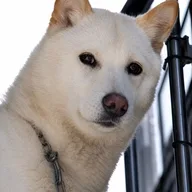
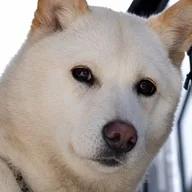
Review cycle 2 (part 2): visual polish
- Fix invisible results numbers (cascade order) and 2x2 results layout
- One site grid (4/6) for split heads, rows, case sections and footer
- 160px section rhythm on desktop, larger case h1, type-card media layout
- Agent map bracket to all three workers; mobile connectors restored
- Tighter avatar crops, outlined strength cards, focus ring on dark band
- Header CTA gap, footer alignment, mobile split-head spacing

Claude-Session: https://claude.ai/code/session_019asvNajs8MQWQtssKnsBmK

diff --git a/assets/site.bundle.css b/assets/site.bundle.css
@@ -314,7 +314,7 @@ a.card:hover .card-title { text-decoration: underline; }
 .case-body li::marker { color: var(--text-meta); }
 .case-body strong { color: var(--wds-label-strong); font-weight: 700; }
 .results { display: grid; grid-template-columns: repeat(var(--n, 4), minmax(0,1fr)); gap: var(--web-gutter); background: var(--surface-inverse); border-radius: var(--web-radius-card); padding: 32px; }
-.results--2 { --n: 2; } .results--3 { --n: 3; } .results--4 { --n: 4; }
+.results--2 { --n: 2; } .results--3 { --n: 3; } .results--4 { --n: 2; }
 .results .result { border-top-color: rgba(255,255,255,.4); }
 .results .v { color: var(--text-inverse); }
 .results .k { color: var(--wds-gray-90); }
@@ -472,4 +472,54 @@ a.card:hover .card-title { text-decoration: underline; }
   #work .card-media { aspect-ratio: 2 / 1; }
   .agent-map { gap: 12px; }
   .agent-col + .agent-col::before, .agent-col + .agent-col::after { display: none; }
+}
+
+/* ---------- Review cycle 2 (visual) ---------- */
+.results .result .v { color: var(--text-inverse); white-space: nowrap; font-size: var(--wds-title2); line-height: var(--wds-title2-lh); }
+.results .result .k { color: var(--wds-gray-90); }
+.header-cta { gap: 0; }
+.footer-cta { align-items: start; }
+.footer-cta > div:last-child { padding-top: 28px; }
+.row { grid-template-columns: minmax(0,4fr) minmax(0,6fr); gap: 48px; }
+.case-section { grid-template-columns: minmax(0,4fr) minmax(0,6fr); }
+.case-body .row { grid-template-columns: minmax(0,2fr) minmax(0,8fr); gap: 24px; }
+.footer-grid { grid-template-columns: minmax(0,4fr) repeat(2, minmax(0,3fr)); gap: 48px; }
+.card-media { border-bottom: 1px solid var(--wds-line-normal); }
+.card-media--type { justify-content: space-between; }
+.card-media--type .cap { order: -1; }
+.grid-2 .card-media--type .big { font-size: 72px; line-height: 84px; }
+.card--filled { background: var(--wds-white); border-color: var(--wds-line-normal); }
+.band :focus-visible { box-shadow: 0 0 0 2px var(--wds-black), 0 0 0 4px var(--wds-white); }
+.nowrap { white-space: nowrap; }
+.agent-map { align-items: start; }
+.agent-col { padding-top: 0; }
+.agent-col:last-child { padding-left: 0; }
+@media (min-width: 1200px) {
+  .section { padding-block: var(--web-section-y); }
+  .section + .section { padding-top: 0; }
+  .hero + .section { padding-top: 0; }
+  .case-hero h1 { font-size: var(--wds-display1); line-height: var(--wds-display1-lh); letter-spacing: var(--wds-display1-ls); }
+}
+@media (max-width: 1023px) {
+  .row { grid-template-columns: 1fr; gap: 6px; }
+  .footer-grid { grid-template-columns: 1fr 1fr; gap: 32px; }
+  .footer-grid > :first-child { grid-column: 1 / -1; }
+}
+@media (max-width: 719px) {
+  .sh-split > div:last-child, .footer-cta > div:last-child { padding-top: 0; }
+  .agent-map { gap: 32px; }
+  .agent-col + .agent-col::before, .agent-col + .agent-col::after { display: block; }
+  .grid-2 .card-media--type .big { font-size: var(--wds-display1); line-height: var(--wds-display1-lh); }
+}
+
+@media (min-width: 1024px) {
+  .agent-map { align-items: center; }
+  .agent-col:last-child { padding-left: 20px; }
+  .agent-col:last-child .agent-node { position: relative; }
+  .agent-col:last-child .agent-node::before { content: ""; position: absolute; left: -21px; top: 50%; width: 20px; border-top: 1px solid currentColor; opacity: .5; }
+  .agent-col:last-child::after { content: ""; position: absolute; left: -24px !important; top: calc(32px + 37px) !important; bottom: 37px; height: auto; width: 0; border: 0 !important; border-left: 1px solid currentColor !important; opacity: .5; }
+  .agent-col:last-child::before { width: 20px !important; }
+}
+@media (max-width: 1023px) {
+  .results .result .v { white-space: normal; font-size: var(--wds-title3); line-height: var(--wds-title3-lh); }
 }

diff --git a/assets/site.css b/assets/site.css
@@ -205,7 +205,7 @@ a.card:hover .card-title { text-decoration: underline; }
 .case-body li::marker { color: var(--text-meta); }
 .case-body strong { color: var(--wds-label-strong); font-weight: 700; }
 .results { display: grid; grid-template-columns: repeat(var(--n, 4), minmax(0,1fr)); gap: var(--web-gutter); background: var(--surface-inverse); border-radius: var(--web-radius-card); padding: 32px; }
-.results--2 { --n: 2; } .results--3 { --n: 3; } .results--4 { --n: 4; }
+.results--2 { --n: 2; } .results--3 { --n: 3; } .results--4 { --n: 2; }
 .results .result { border-top-color: rgba(255,255,255,.4); }
 .results .v { color: var(--text-inverse); }
 .results .k { color: var(--wds-gray-90); }
@@ -363,4 +363,54 @@ a.card:hover .card-title { text-decoration: underline; }
   #work .card-media { aspect-ratio: 2 / 1; }
   .agent-map { gap: 12px; }
   .agent-col + .agent-col::before, .agent-col + .agent-col::after { display: none; }
+}
+
+/* ---------- Review cycle 2 (visual) ---------- */
+.results .result .v { color: var(--text-inverse); white-space: nowrap; font-size: var(--wds-title2); line-height: var(--wds-title2-lh); }
+.results .result .k { color: var(--wds-gray-90); }
+.header-cta { gap: 0; }
+.footer-cta { align-items: start; }
+.footer-cta > div:last-child { padding-top: 28px; }
+.row { grid-template-columns: minmax(0,4fr) minmax(0,6fr); gap: 48px; }
+.case-section { grid-template-columns: minmax(0,4fr) minmax(0,6fr); }
+.case-body .row { grid-template-columns: minmax(0,2fr) minmax(0,8fr); gap: 24px; }
+.footer-grid { grid-template-columns: minmax(0,4fr) repeat(2, minmax(0,3fr)); gap: 48px; }
+.card-media { border-bottom: 1px solid var(--wds-line-normal); }
+.card-media--type { justify-content: space-between; }
+.card-media--type .cap { order: -1; }
+.grid-2 .card-media--type .big { font-size: 72px; line-height: 84px; }
+.card--filled { background: var(--wds-white); border-color: var(--wds-line-normal); }
+.band :focus-visible { box-shadow: 0 0 0 2px var(--wds-black), 0 0 0 4px var(--wds-white); }
+.nowrap { white-space: nowrap; }
+.agent-map { align-items: start; }
+.agent-col { padding-top: 0; }
+.agent-col:last-child { padding-left: 0; }
+@media (min-width: 1200px) {
+  .section { padding-block: var(--web-section-y); }
+  .section + .section { padding-top: 0; }
+  .hero + .section { padding-top: 0; }
+  .case-hero h1 { font-size: var(--wds-display1); line-height: var(--wds-display1-lh); letter-spacing: var(--wds-display1-ls); }
+}
+@media (max-width: 1023px) {
+  .row { grid-template-columns: 1fr; gap: 6px; }
+  .footer-grid { grid-template-columns: 1fr 1fr; gap: 32px; }
+  .footer-grid > :first-child { grid-column: 1 / -1; }
+}
+@media (max-width: 719px) {
+  .sh-split > div:last-child, .footer-cta > div:last-child { padding-top: 0; }
+  .agent-map { gap: 32px; }
+  .agent-col + .agent-col::before, .agent-col + .agent-col::after { display: block; }
+  .grid-2 .card-media--type .big { font-size: var(--wds-display1); line-height: var(--wds-display1-lh); }
+}
+
+@media (min-width: 1024px) {
+  .agent-map { align-items: center; }
+  .agent-col:last-child { padding-left: 20px; }
+  .agent-col:last-child .agent-node { position: relative; }
+  .agent-col:last-child .agent-node::before { content: ""; position: absolute; left: -21px; top: 50%; width: 20px; border-top: 1px solid currentColor; opacity: .5; }
+  .agent-col:last-child::after { content: ""; position: absolute; left: -24px !important; top: calc(32px + 37px) !important; bottom: 37px; height: auto; width: 0; border: 0 !important; border-left: 1px solid currentColor !important; opacity: .5; }
+  .agent-col:last-child::before { width: 20px !important; }
+}
+@media (max-width: 1023px) {
+  .results .result .v { white-space: normal; font-size: var(--wds-title3); line-height: var(--wds-title3-lh); }
 }

diff --git a/ai.html b/ai.html
@@ -128,7 +128,7 @@
             <img src="/assets/img/agents/duggu.webp" alt="" width="44" height="44">
             <span class="an-text"><span class="an-name">덕구</span><span class="an-role">아카이비스트</span></span>
           </button></div>
-        <p>매니저와 실무 에이전트가 만든 산출물과 결정이 옵시디언 지식 저장소에 쌓이고, 다음 작업을 시작할 때 맥락으로 다시 쓰입니다. 작업을 실행하는 층(OpenClaw, 에이전트 실행 도구)과 지식을 쌓는 층(Hermes, 기록·검색 도구)을 나눠 운영합니다.</p>
+        <p>매니저와 실무 에이전트가 만든 산출물과 결정이 옵시디언 지식 저장소에 쌓이고, 다음 작업을 시작할 때 맥락으로 다시 쓰입니다. 작업을 실행하는 층<span class="nowrap">(OpenClaw, 에이전트 실행 도구)과</span> 지식을 쌓는 층(Hermes, 기록·검색 도구)을 나눠 운영합니다.</p>
       </div>
     </div>
     <div class="agent-detail">

diff --git a/work.html b/work.html
@@ -97,7 +97,7 @@
   <div class="card-body">
     <span class="card-eyebrow">2025.01 – 현재 · 디지털기획 담당</span>
     <h3 class="card-title">규제를 설계로 풀기</h3>
-    <p class="card-desc">주민번호 수집 최소화, 다크패턴 가이드라인, 법정 통지서 시스템처럼 규제 대응을 화면과 운영 프로세스에 고정했습니다.</p>
+    <p class="card-desc">주민번호 수집 최소화, 다크패턴 가이드라인, 법정 통지서 시스템처럼 규제 대응을 화면과 운영 프로세스에 녹였습니다.</p>
     <span class="card-meta"><span class="badge">규제</span><span class="badge">준법 협의</span><span class="badge">운영 시스템</span></span>
   </div>
 </a>

diff --git a/work/loan-comparison.html b/work/loan-comparison.html
@@ -45,7 +45,7 @@
     <p class="lead">대출비교 서비스를 초기부터 주도해 월 10억이던 신용대출을 150억으로 키웠습니다. 이후 토스·카카오뱅크 등 제휴 10개사로 넓혀 월 최대 1,200억을 기록했고, 계약부터 정산과 내부통제까지 총괄합니다.</p>
   </section>
   <dl class="summary">
-    <div><dt>역할</dt><dd>초기 주도 → 제휴·운영 총괄</dd></div>
+    <div><dt>역할</dt><dd>초기 주도 → <span class="nowrap">제휴·운영</span> 총괄</dd></div>
     <div><dt>기간</dt><dd>2018.08 – 현재</dd></div>
     <div><dt>규모</dt><dd>광고비 월 최대 5억 · 제휴 10개사</dd></div>
     <div><dt>결과</dt><dd>월 최대 1,200억</dd></div>

diff --git a/about.html b/about.html
@@ -155,7 +155,7 @@
           <span class="card-eyebrow">모바일히어로즈 · 마케터 커뮤니티 · 2020 – 2023</span>
           <h3 class="card-title">리프트오프 주관 마케터 모임 · 인터뷰 게재</h3>
           <p class="card-desc">모바일 앱 마케터 커뮤니티에서 활동하며 인하우스 퍼포먼스 마케팅 경험을 공유했고, 인터뷰가 게재됐습니다.</p>
-          
+          <span class="card-meta"><span class="caption">원문 링크 준비 중</span></span>
         </div>
       </article>
     </div>

diff --git a/index.html b/index.html
@@ -224,7 +224,7 @@
           <span class="card-eyebrow">모바일히어로즈 · 마케터 커뮤니티 · 2020 – 2023</span>
           <h3 class="card-title">리프트오프 주관 마케터 모임 · 인터뷰 게재</h3>
           <p class="card-desc">모바일 앱 마케터 커뮤니티에서 활동하며 인하우스 퍼포먼스 마케팅 경험을 공유했고, 인터뷰가 게재됐습니다.</p>
-          
+          <span class="card-meta"><span class="caption">원문 링크 준비 중</span></span>
         </div>
       </article>
     </div>
